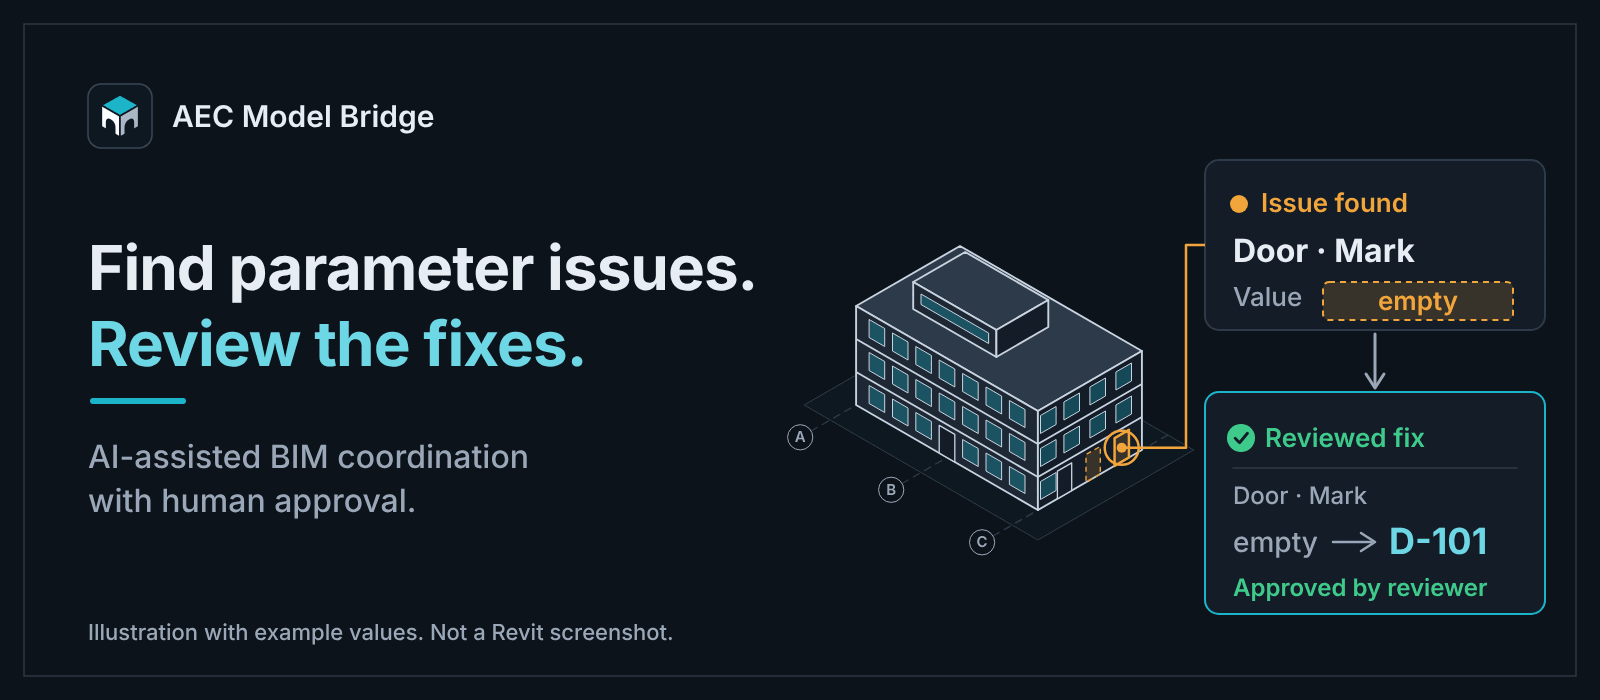
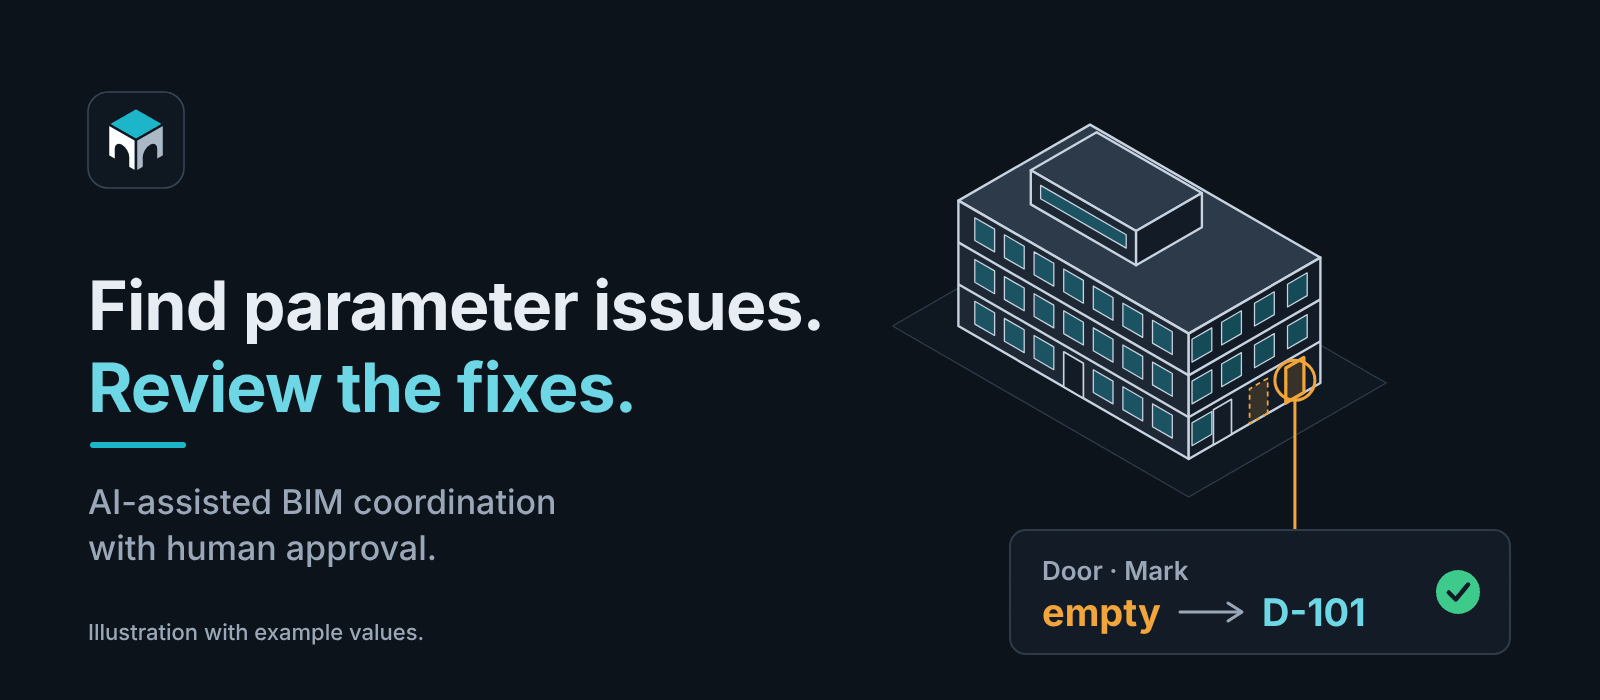
Simplify hero, workflow and demo cover to match the social preview
Claude-Session: https://claude.ai/code/session_01Uat2YdH2bvPPK93KTkDHpj

diff --git a/docs/design/readme-visuals/README.md b/docs/design/readme-visuals/README.md
@@ -18,8 +18,8 @@ Palette is taken from `docs/design/tokens.md`. The Pier logo is embedded verbati
 
 ## Alt text
 
-- **Hero:** "Find parameter issues. Review the fixes. A BIM model with one door flagged for an empty Mark value, an issue card, and a reviewed correction card. Example values, not a Revit screenshot."
-- **Workflow:** "Four steps: Inspect finds empty Mark values, Propose drafts a change table, Approve is a human decision, Verify reads the values back. Example values are illustrative."
+- **Hero:** "Find parameter issues. Review the fixes. A BIM model with one door flagged for an empty Mark value and a callout showing the reviewed correction. Example values."
+- **Workflow:** "Four steps: Inspect finds an empty Mark, Propose drafts a change, Approve is a human decision, Verify reads the value back. Example values are illustrative."
 - **Social preview:** "AEC Model Bridge: AI-assisted BIM coordination, with the Pier logo and an isometric building model."
 - **Demo cover:** "Fix missing parameters in Revit. Inspect. Review. Approve. Verify. A placeholder reserves space for a screenshot from the synthetic test model."
 
@@ -28,7 +28,7 @@ Palette is taken from `docs/design/tokens.md`. The Pier logo is embedded verbati
 ```html
 <picture>
   <source media="(prefers-color-scheme: dark)" srcset="docs/images/readme/readme-hero-dark.png">
-  <img src="docs/images/readme/readme-hero-light.png" alt="Find parameter issues. Review the fixes. A BIM model with one door flagged for an empty Mark value, an issue card, and a reviewed correction card. Example values, not a Revit screenshot." width="900">
+  <img src="docs/images/readme/readme-hero-light.png" alt="Find parameter issues. Review the fixes. A BIM model with one door flagged for an empty Mark value and a callout showing the reviewed correction. Example values." width="900">
 </picture>
 ```
 
